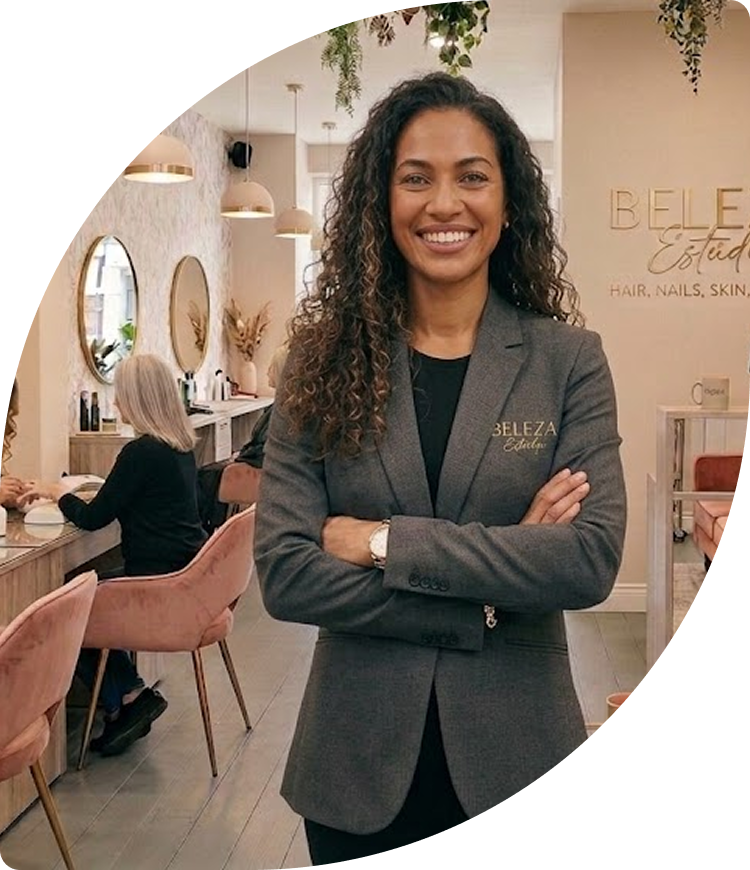
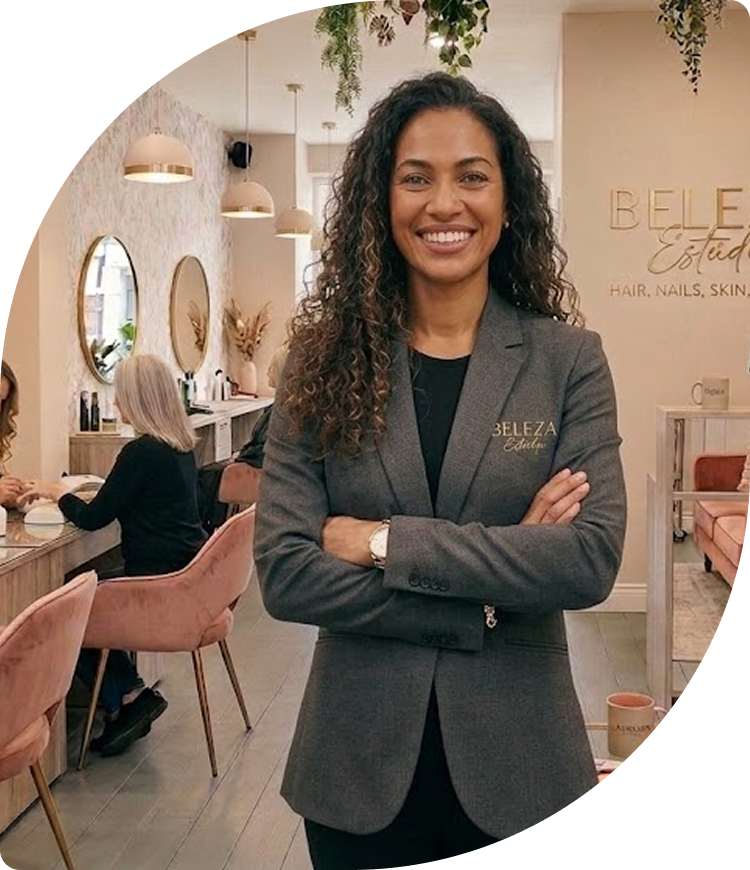
Negócios heroes: atualiza imagens mobile (S/B/E) + bump mobile ?v=20260722

Changed region(s): [[0.368, 0.4655, 1.0, 1.0], [0.0, 0.0, 0.6133, 0.5276]]

diff --git a/barbearia/index.html b/barbearia/index.html
@@ -675,7 +675,7 @@
         </div>
       </div>
       <div class="h2-hero-img"><picture>
-        <source media="(max-width: 640px)" srcset="/assets/negocios/hero/B-hero-mobile.png?v=20260721">
+        <source media="(max-width: 640px)" srcset="/assets/negocios/hero/B-hero-mobile.png?v=20260722">
         <img src="/assets/negocios/hero/B-hero-deskop.png?v=20260721" alt="Sistema de gestão para barbearia">
       </picture></div>
     </div>

diff --git a/estudio-de-beleza/index.html b/estudio-de-beleza/index.html
@@ -675,7 +675,7 @@
         </div>
       </div>
       <div class="h2-hero-img"><picture>
-        <source media="(max-width: 640px)" srcset="/assets/negocios/hero/E-hero-mobile.png?v=20260721">
+        <source media="(max-width: 640px)" srcset="/assets/negocios/hero/E-hero-mobile.png?v=20260722">
         <img src="/assets/negocios/hero/E-hero-deskop.png?v=20260721" alt="Sistema de gestão para estúdio de beleza">
       </picture></div>
     </div>

diff --git a/salao-de-beleza/index.html b/salao-de-beleza/index.html
@@ -675,7 +675,7 @@
         </div>
       </div>
       <div class="h2-hero-img"><picture>
-        <source media="(max-width: 640px)" srcset="/assets/negocios/hero/S-hero-mobile.png?v=20260721">
+        <source media="(max-width: 640px)" srcset="/assets/negocios/hero/S-hero-mobile.png?v=20260722">
         <img src="/assets/negocios/hero/S-hero-deskop.png?v=20260721" alt="Sistema de gestão para salão de beleza">
       </picture></div>
     </div>